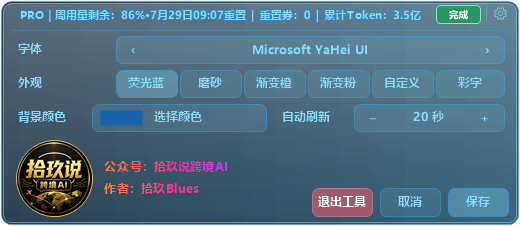
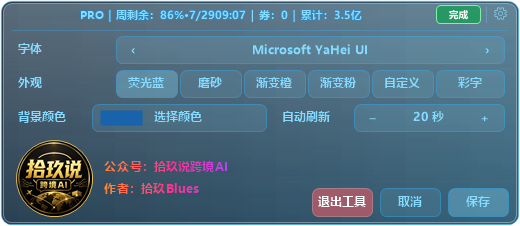
Keep full usage labels in overlay

Changed region(s): [[0.0308, 0.031, 0.8308, 0.0929]]

diff --git a/Program.cs b/Program.cs
@@ -332,7 +332,7 @@ namespace CodexUsageOverlay
             bool dpiChanged = Math.Abs(newDpiScale - dpiScale) > 0.01f;
             dpiScale = newDpiScale;
             int availableWidth = Math.Max(ScalePixels(240), windowWidth - ScalePixels(32));
-            int overlayWidth = Math.Min(ScalePixels(520), availableWidth);
+            int overlayWidth = Math.Min(ScalePixels(620), availableWidth);
             int overlayLeft = rect.Left + (windowWidth - overlayWidth) / 2;
             int titleBarHeight = ScalePixels(36);
             int overlayHeight = ScalePixels(settingsExpanded ? ExpandedHeight : HeaderHeight);
@@ -359,7 +359,8 @@ namespace CodexUsageOverlay
             CodexTaskState newTaskState = taskStatusMonitor.Snapshot();
             bool taskStateChanged = newTaskState != taskState;
             taskState = newTaskState;
-            displayText = BuildDisplayText(usage, Math.Max(140, UnscalePixels(overlayWidth) - 98));
+            int textWidth = Math.Max(140, TaskStatusBounds.Left - 14);
+            displayText = BuildDisplayText(usage, textWidth);
             if (becameVisible || boundsChanged || dpiChanged || taskStateChanged || !String.Equals(displayText, lastRenderedText, StringComparison.Ordinal))
             {
                 RenderLayered();
@@ -378,7 +379,7 @@ namespace CodexUsageOverlay
 
             System.Collections.Generic.List<string> sections = new System.Collections.Generic.List<string>();
             sections.Add(planLabel);
-            if (availableTextWidth >= 415)
+            if (availableTextWidth >= 500)
             {
                 sections.Add("周用量剩余：" + weeklyRemaining + "·" + FormatResetText(usage.WeeklyResetText));
                 if (IsAbnormalRateLimitStatus(usage.RateLimitStatus))
@@ -389,9 +390,10 @@ namespace CodexUsageOverlay
                 return String.Join(" | ", sections.ToArray());
             }
 
-            if (availableTextWidth >= 300)
+            if (availableTextWidth >= 390)
             {
                 sections.Clear();
+                sections.Add(planLabel);
                 sections.Add("周用量剩余：" + weeklyRemaining);
                 if (usage.AvailableResetCredits.HasValue)
                     sections.Add("重置券：" + usage.AvailableResetCredits.Value.ToString(CultureInfo.InvariantCulture));
@@ -399,12 +401,12 @@ namespace CodexUsageOverlay
                 return String.Join(" | ", sections.ToArray());
             }
 
-            sections.Add("周" + weeklyRemaining + "·" + FormatResetText(usage.WeeklyResetText));
+            sections.Add("周用量剩余：" + weeklyRemaining);
             if (IsAbnormalRateLimitStatus(usage.RateLimitStatus))
                 sections.Add(usage.RateLimitStatus);
             if (usage.AvailableResetCredits.HasValue)
-                sections.Add("券" + usage.AvailableResetCredits.Value.ToString(CultureInfo.InvariantCulture));
-            sections.Add("Token" + tokensText);
+                sections.Add("重置券：" + usage.AvailableResetCredits.Value.ToString(CultureInfo.InvariantCulture));
+            sections.Add("累计Token：" + tokensText);
             return String.Join(" | ", sections.ToArray());
         }
 
@@ -643,7 +645,7 @@ namespace CodexUsageOverlay
                 displayText = "PRO | 周用量剩余：86%·7月29日09:07重置 | 重置券：0 | 累计Token：3.5亿";
                 taskState = CodexTaskState.Completed;
                 dpiScale = 1f;
-                Width = 520;
+                Width = 620;
 
                 for (int index = 0; index < themes.Length; index++)
                 {
